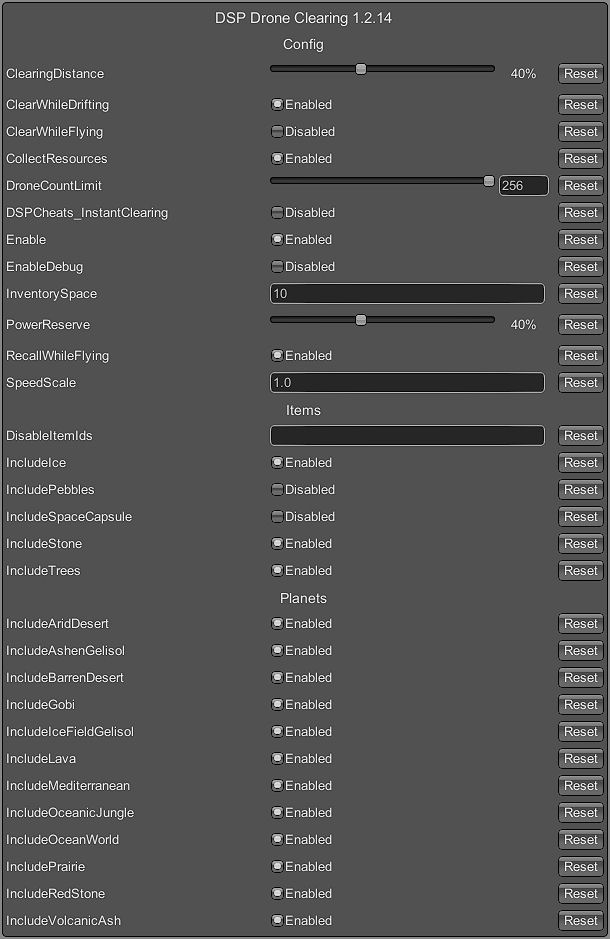
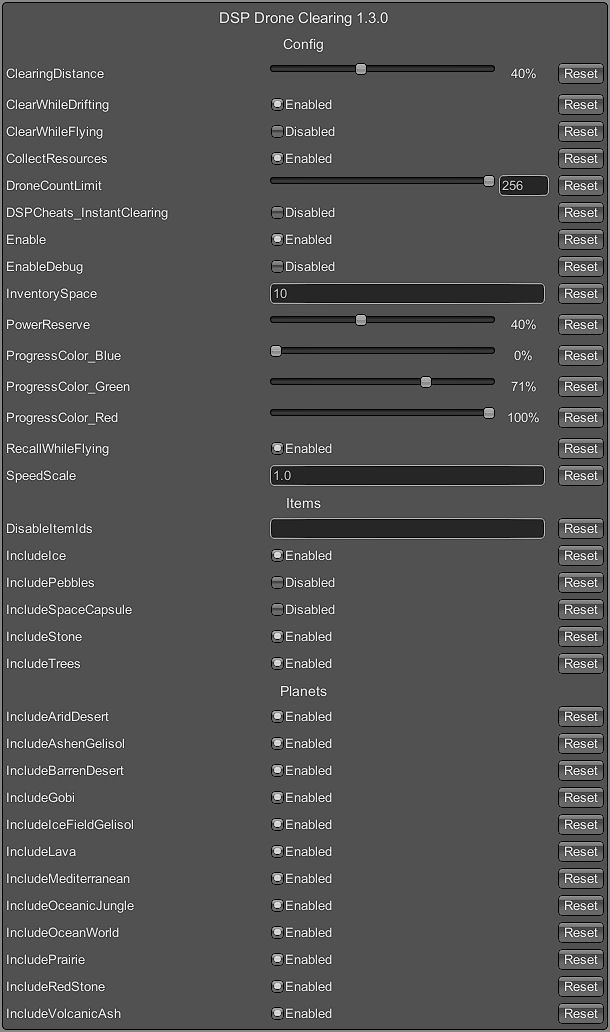
The progress circle color is now configurable

Changed region(s): [[0.0, 0.0, 0.9967, 1.0], [0.841, 0.0618, 0.8721, 0.0927]]

diff --git a/DysonSphereDroneClearing.cs b/DysonSphereDroneClearing.cs
@@ -50,6 +50,9 @@ namespace DysonSphereDroneClearing
         public static BepInEx.Configuration.ConfigEntry<float> configSpeedScaleFactor;
         public static BepInEx.Configuration.ConfigEntry<bool> configEnableInstantClearing;
         public static BepInEx.Configuration.ConfigEntry<bool> configEnableDebug;
+        public static BepInEx.Configuration.ConfigEntry<float> configProgressColor_Red;
+        public static BepInEx.Configuration.ConfigEntry<float> configProgressColor_Green;
+        public static BepInEx.Configuration.ConfigEntry<float> configProgressColor_Blue;
 
         public static BepInEx.Configuration.ConfigEntry<bool> configEnableClearingItemTree;
         public static BepInEx.Configuration.ConfigEntry<bool> configEnableClearingItemStone;
@@ -328,6 +331,11 @@ namespace DysonSphereDroneClearing
             configSpeedScaleFactor = Config.Bind<float>("Config", "SpeedScale", 1.0f, "Is this mod so great that it feels too much like cheating?  Slow the drones down with this setting.  They normally operate at the same speed as Icarus.  Too slow?  You can cheat too by setting a value greater than 1.");
             configEnableInstantClearing = Config.Bind<bool>("Config", "DSPCheats_InstantClearing", false, "If the DSP Cheats mod is installed, and Instant-Build is enabled, should this mod work with that one and instantly clear?");
             configEnableDebug = Config.Bind<bool>("Config", "EnableDebug", false, "Enabling debug will add more feedback to the BepInEx console.  This includes the reasons why drones are not clearing.");
+
+            // Color from Configs.builtin.gizmoColors[2] = {1, 0.7052167, 0}, but it hasn't been loaded yet.
+            configProgressColor_Red = Config.Bind<float>("Config", "ProgressColor_Red", 1.0f, new BepInEx.Configuration.ConfigDescription("The color of the clearing progress circle (red component).", new BepInEx.Configuration.AcceptableValueRange<float>(0, 1)));
+            configProgressColor_Green = Config.Bind<float>("Config", "ProgressColor_Green", 0.7052167f, new BepInEx.Configuration.ConfigDescription("The color of the clearing progress circle (green component).", new BepInEx.Configuration.AcceptableValueRange<float>(0, 1)));
+            configProgressColor_Blue = Config.Bind<float>("Config", "ProgressColor_Blue", 0.0f, new BepInEx.Configuration.ConfigDescription("The color of the clearing progress circle (blue component).", new BepInEx.Configuration.AcceptableValueRange<float>(0, 1)));
 
             configEnableClearingItemTree = Config.Bind<bool>("Items", "IncludeTrees", true, "Enabling clearing of trees.");
             configEnableClearingItemStone = Config.Bind<bool>("Items", "IncludeStone", true, "Enabling clearing of stones which can block the mecha's movement.");
@@ -737,7 +745,7 @@ namespace DysonSphereDroneClearing
                     missionData.miningTargetGizmo.fadeInScale = 1.3f;
                     missionData.miningTargetGizmo.fadeInTime = 0.13f;
                     missionData.miningTargetGizmo.fadeInFalloff = 0.5f;
-                    missionData.miningTargetGizmo.color = Configs.builtin.gizmoColors[2];
+                    missionData.miningTargetGizmo.color = new Color(configProgressColor_Red.Value, configProgressColor_Green.Value, configProgressColor_Blue.Value); // Configs.builtin.gizmoColors[2]
                     missionData.miningTargetGizmo.rotateSpeed = 0f;
                     missionData.miningTargetGizmo.Open();
 

diff --git a/README.md b/README.md
@@ -28,6 +28,7 @@ Settings include
  - Control over clearing of rocks, trees, small rocks and ice.
  - Control over planet types clearing is performed on.
  - Control the drone clearing speed.  Default is to clear at Icarus' mining speed.
+ - Progress circle color.
 
 ![Config Settings Window image](https://raw.githubusercontent.com/GreyHak/dsp-drone-clearing/master/ConfigSettingsWindow.jpg)
 
@@ -58,6 +59,7 @@ The source code for this mod is available for download, review and forking on Gi
 ## Change Log
 ### v1.3.0
  - Drone clearing assignments will now be shown as soon as they're assigned.  You no longer need to wait until mining begins.
+ - The progress circle color is now configurable.
 ### v1.2.14
  - Improved in-game configuration changes by improving compatibility with [BepInEx.ConfigurationManager](https://github.com/BepInEx/BepInEx.ConfigurationManager).
 ### v1.2.13
